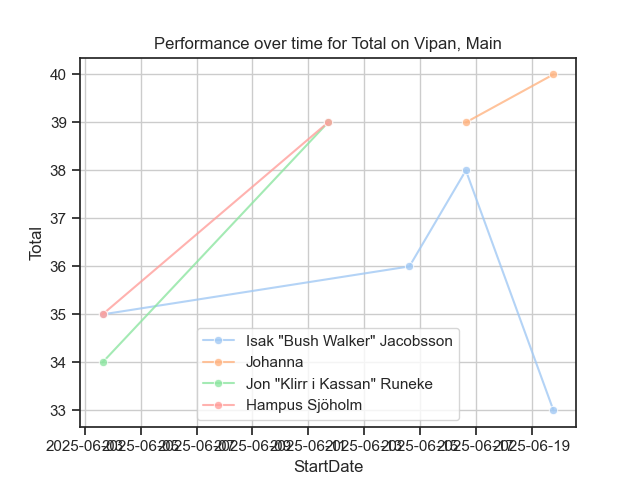
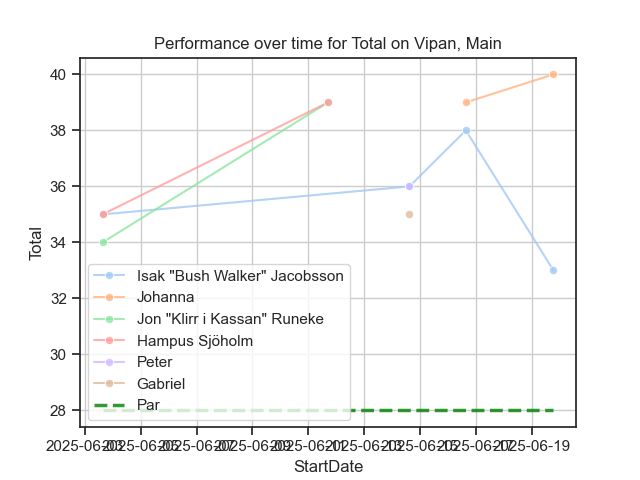
Add option to plot par

diff --git a/performance_over_time.py b/performance_over_time.py
@@ -11,6 +11,7 @@ def generate_dataframe(csv_dir):
     csv_files = glob.glob(os.path.join(csv_dir, "*.csv"))
 
     dfs = []
+    par_dfs = []
 
     for file in csv_files:
         df = pd.read_csv(file)
@@ -18,6 +19,21 @@ def generate_dataframe(csv_dir):
         # Normalize smart quotes in all string columns (e.g., PlayerName)
         for col in df.select_dtypes(include=['object']).columns:
             df[col] = df[col].str.replace('[“”]', '"', regex=True)
+
+        # Get par row separately
+        par_df = df[df["PlayerName"] == "Par"]
+
+        if not par_df.empty:
+            # Melt par row
+            par_df["Total"] = pd.to_numeric(par_df["Total"], errors="coerce")
+
+            nbr_holes = len([col for col in par_df.columns if col.startswith("Hole")])
+            for hole in range(1, nbr_holes+1):
+                par_df[f"Hole{hole}"] = pd.to_numeric(par_df[f"Hole{hole}"], errors="coerce")
+            
+            par_df["StartDate"] = pd.to_datetime(par_df["StartDate"])
+
+            par_dfs.append(par_df)
 
         
         df_fixed = df[df["PlayerName"] != "Par"]
@@ -43,10 +59,11 @@ def generate_dataframe(csv_dir):
 
     # Combine all df_long DataFrames
     df = pd.concat(dfs, ignore_index=True)
+    par_df = pd.concat(par_dfs, ignore_index=True)
 
-    return df
+    return df, par_df
 
-def graph_performance(df, course_name, layout_name, players, stat, output_path):
+def graph_performance(df, par_df, course_name, layout_name, players, stat, output_path, plot_par):
     # Filter the DataFrame
     subset = df[
         (df["CourseName"] == course_name) &
@@ -61,7 +78,9 @@ def graph_performance(df, course_name, layout_name, players, stat, output_path):
 
     sns.set_theme(style="ticks", palette="pastel")
 
-    if players[0] == "all":
+    if players[0] != "all":
+        subset = subset[subset['PlayerName'].isin(players)]
+    else:
         players = list(subset["PlayerName"].unique())
 
     for name in players:
@@ -74,6 +93,16 @@ def graph_performance(df, course_name, layout_name, players, stat, output_path):
         # Plot stat for player
         sns.lineplot(data=sub_subset, x="StartDate", y=stat, label=name, marker='o', alpha=0.8)
     
+    if plot_par:
+        par_subset = par_df[
+            (par_df["CourseName"] == course_name) &
+            (par_df["LayoutName"] == layout_name)
+        ].copy()
+
+        par_subset = par_subset[par_subset['StartDate'].isin(subset['StartDate'])]
+        
+        sns.lineplot(data=par_subset, x="StartDate", y=stat, label="Par", linewidth=2.5, alpha=0.8, color="green", linestyle="--")
+    
     plt.title(f"Performance over time for {stat} on {course_name}, {layout_name}")
     plt.grid(True)
 
@@ -82,8 +111,8 @@ def graph_performance(df, course_name, layout_name, players, stat, output_path):
     plt.show()
 
 def main(args, players):
-    df = generate_dataframe(args.csv_dir)
-    graph_performance(df, args.course, args.layout, players, args.stat, args.output)
+    df, par_df = generate_dataframe(args.csv_dir)
+    graph_performance(df, par_df, args.course, args.layout, players, args.stat, args.output, args.plot_par)
 
 if __name__ == "__main__":
     parser = argparse.ArgumentParser(
@@ -94,6 +123,7 @@ if __name__ == "__main__":
         "    python performance_over_time.py -d score_cards -c Vipan -l Main -p 'Isak \"Bush Walker\" Jacobsson'\n"
         "    python performance_over_time.py -d score_cards -c Vipan -l Main -p 'Isak \"Bush Walker\" Jacobsson' -p Johanna\n"
         "    python performance_over_time.py -d score_cards -c Vipan -l Main -o output_file.png\n"
+        "    python performance_over_time.py -d score_cards -c Vipan -l Main -r\n"
         ),
         formatter_class=argparse.RawTextHelpFormatter
     )
@@ -132,6 +162,11 @@ if __name__ == "__main__":
         type=str,
         default=None,
         help="Path to save the plot image (e.g., 'plot.png'). If not provided, the plot is only shown."
+    )
+    parser.add_argument(
+        "-r", "--plot-par",
+        action="store_true",
+        help="Include par line in plot"
     )
 
     args = parser.parse_args()

diff --git a/course_analysis.py b/course_analysis.py
@@ -70,7 +70,7 @@ def generate_dataframe(csv_dir):
 
     return df, par_df
 
-def graph_average(df, par_df, course_name, layout_name, players, output_path):
+def graph_average(df, par_df, course_name, layout_name, players, output_path, plot_par):
     # Filter the DataFrame
     subset = df[
         (df["CourseName"] == course_name) &
@@ -98,7 +98,8 @@ def graph_average(df, par_df, course_name, layout_name, players, output_path):
     sns.stripplot(data=subset, x="Hole", y="Score", size=4, color=".3")
     
     # Plot par
-    sns.scatterplot(x="Hole", y="Score", data=subset_par, label="Par", zorder=5, s=100, linewidth=2.5, facecolors='none', edgecolor="green", alpha=0.7)
+    if plot_par:
+        sns.scatterplot(x="Hole", y="Score", data=subset_par, label="Par", zorder=5, s=100, linewidth=2.5, facecolors='none', edgecolor="green", alpha=0.7)
 
     plt.ylim(bottom=0)
     plt.title(f"Boxplot for {course_name}, {layout_name}, player(s): {players}")
@@ -110,7 +111,7 @@ def graph_average(df, par_df, course_name, layout_name, players, output_path):
 
 def main(args, players):
     df, par_df = generate_dataframe(args.csv_dir)
-    graph_average(df, par_df, args.course, args.layout, players, args.output)
+    graph_average(df, par_df, args.course, args.layout, players, args.output, args.plot_par)
 
 if __name__ == "__main__":
     parser = argparse.ArgumentParser(
@@ -120,6 +121,7 @@ if __name__ == "__main__":
         "    python course_analysis.py -d score_cards -c Vipan -l Main -p 'Isak \"Bush Walker\" Jacobsson'\n"
         "    python course_analysis.py -d score_cards -c Vipan -l Main -p 'Isak \"Bush Walker\" Jacobsson' -p Johanna\n"
         "    python course_analysis.py -d score_cards -c Vipan -l Main -o output_file.png\n"
+        "    python course_analysis.py -d score_cards -c Vipan -l Main -r\n"
         ),
         formatter_class=argparse.RawTextHelpFormatter
     )
@@ -152,6 +154,11 @@ if __name__ == "__main__":
         type=str,
         default=None,
         help="Path to save the plot image (e.g., 'plot.png'). If not provided, the plot is only shown."
+    )
+    parser.add_argument(
+        "-r", "--plot-par",
+        action="store_true",
+        help="Include par line in plot"
     )
 
     args = parser.parse_args()

diff --git a/README.md b/README.md
@@ -59,7 +59,7 @@ Here is an example use for course "Vipan" and layout "Main" for all players.
 Remember to always specify the directory containing your UDisc CSV files:
 
 ```
-python course_analysis.py --csv-dir score_cards --course Vipan --layout Main
+python course_analysis.py --csv-dir score_cards --course Vipan --layout Main --plot-par
 ```
 
 Which generates a plot, such as:
@@ -94,7 +94,7 @@ record of the selecet stat will be plotted. When not specifiying a stat, the
 script will generate a plot for total round score. Here is an example:
 
 ```
-python performance_over_time.py --csv-dir score_cards --course Vipan --layout Main
+python performance_over_time.py --csv-dir score_cards --course Vipan --layout Main --plot-par
 ```
 
 Which generates a plot, such as:
